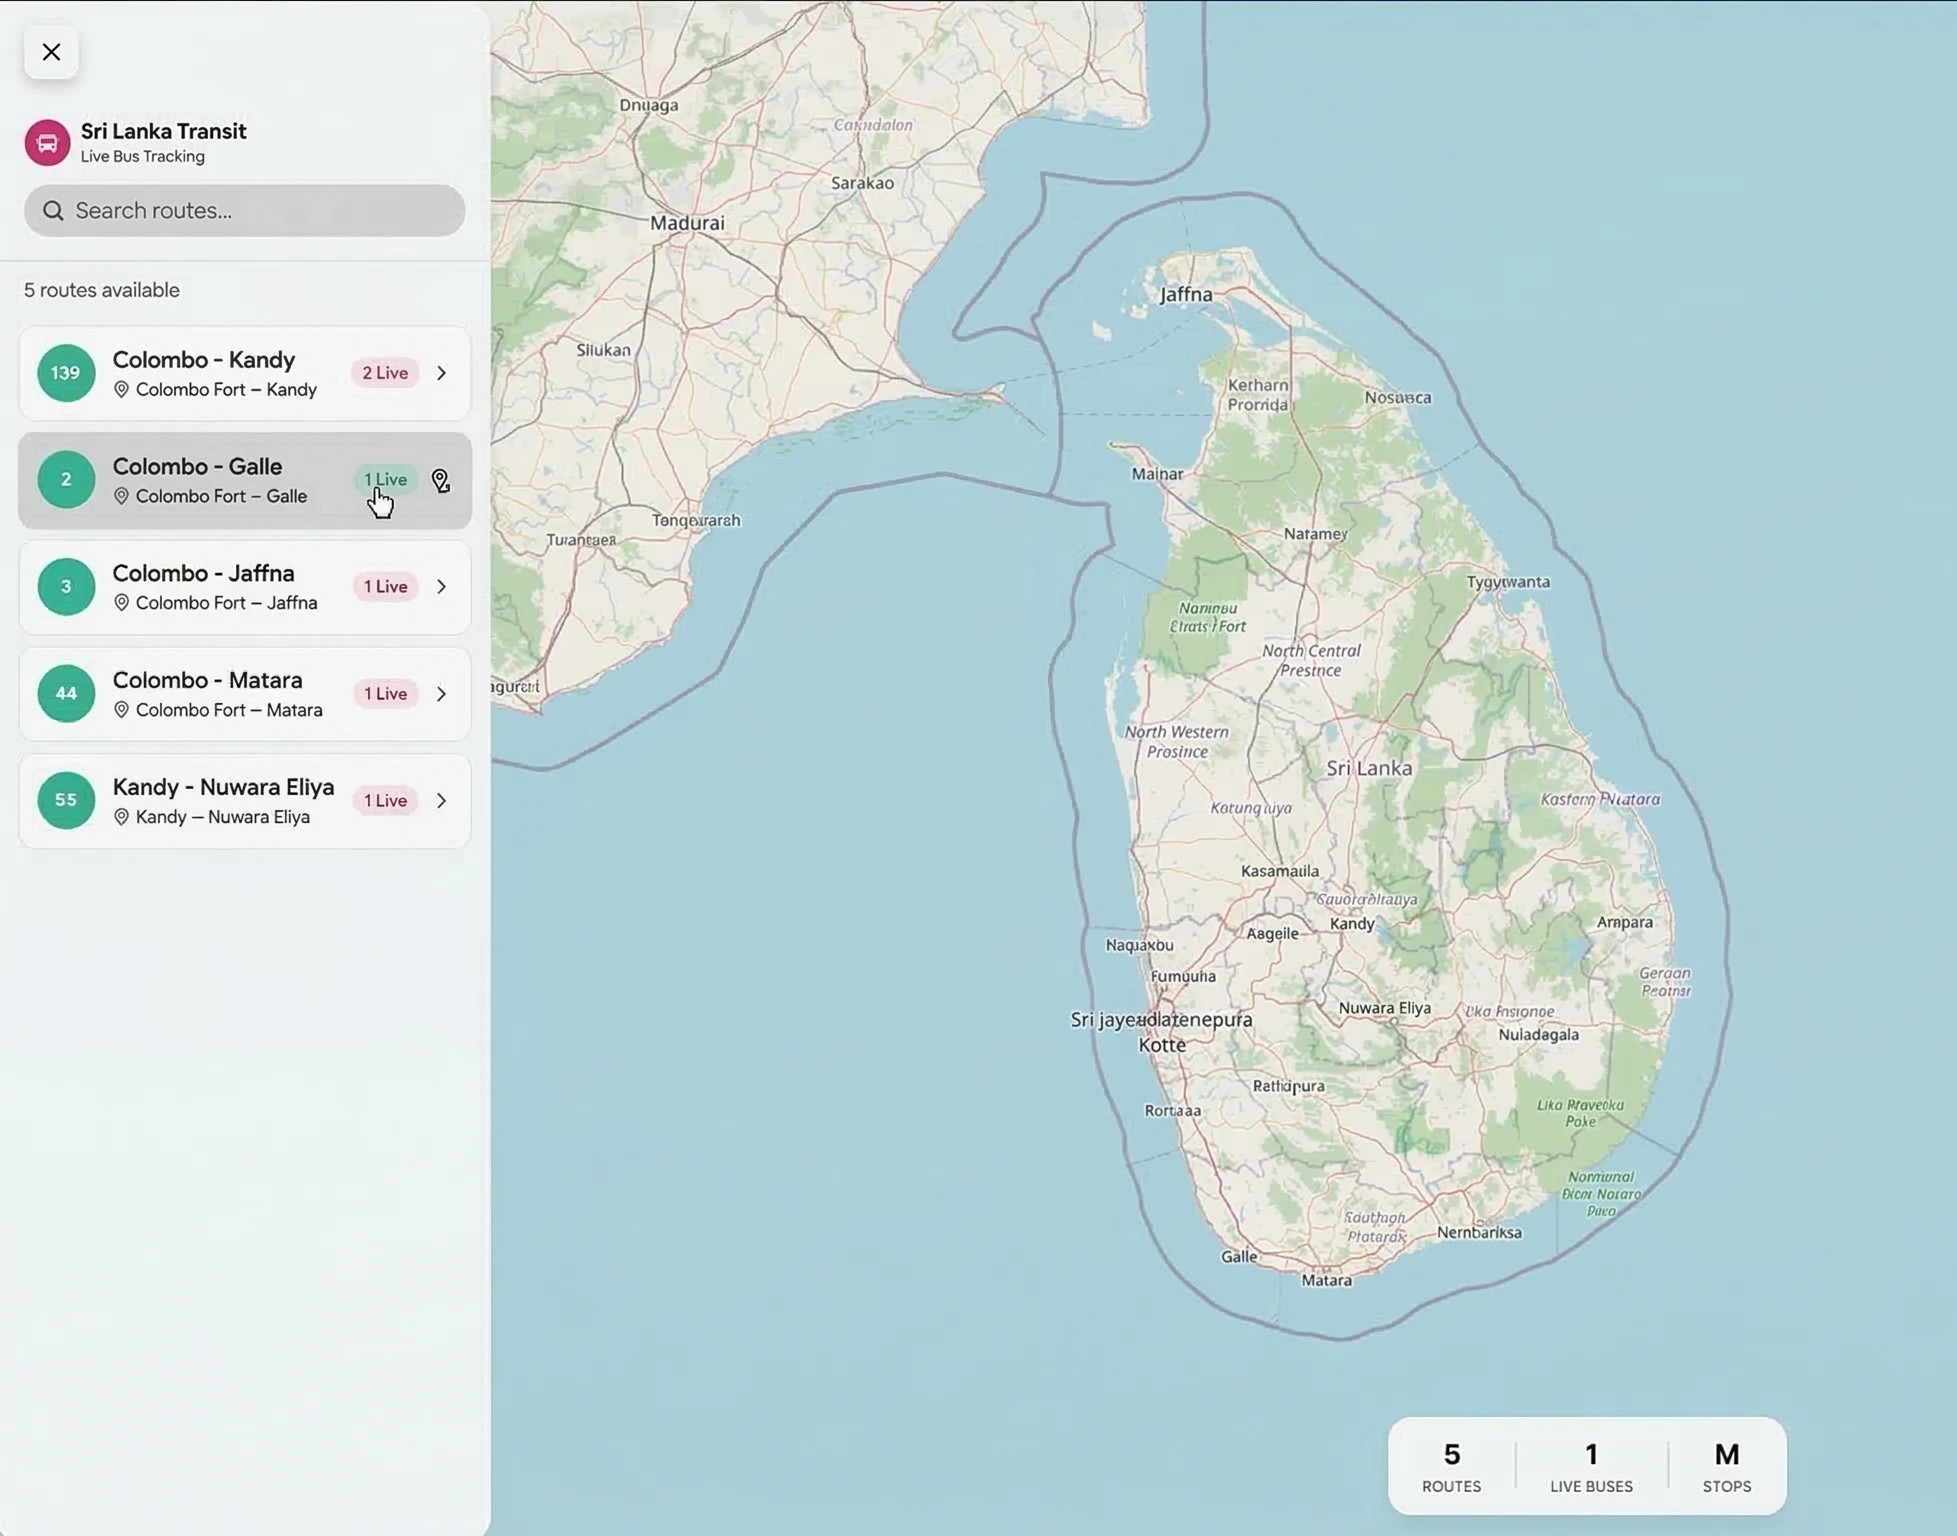
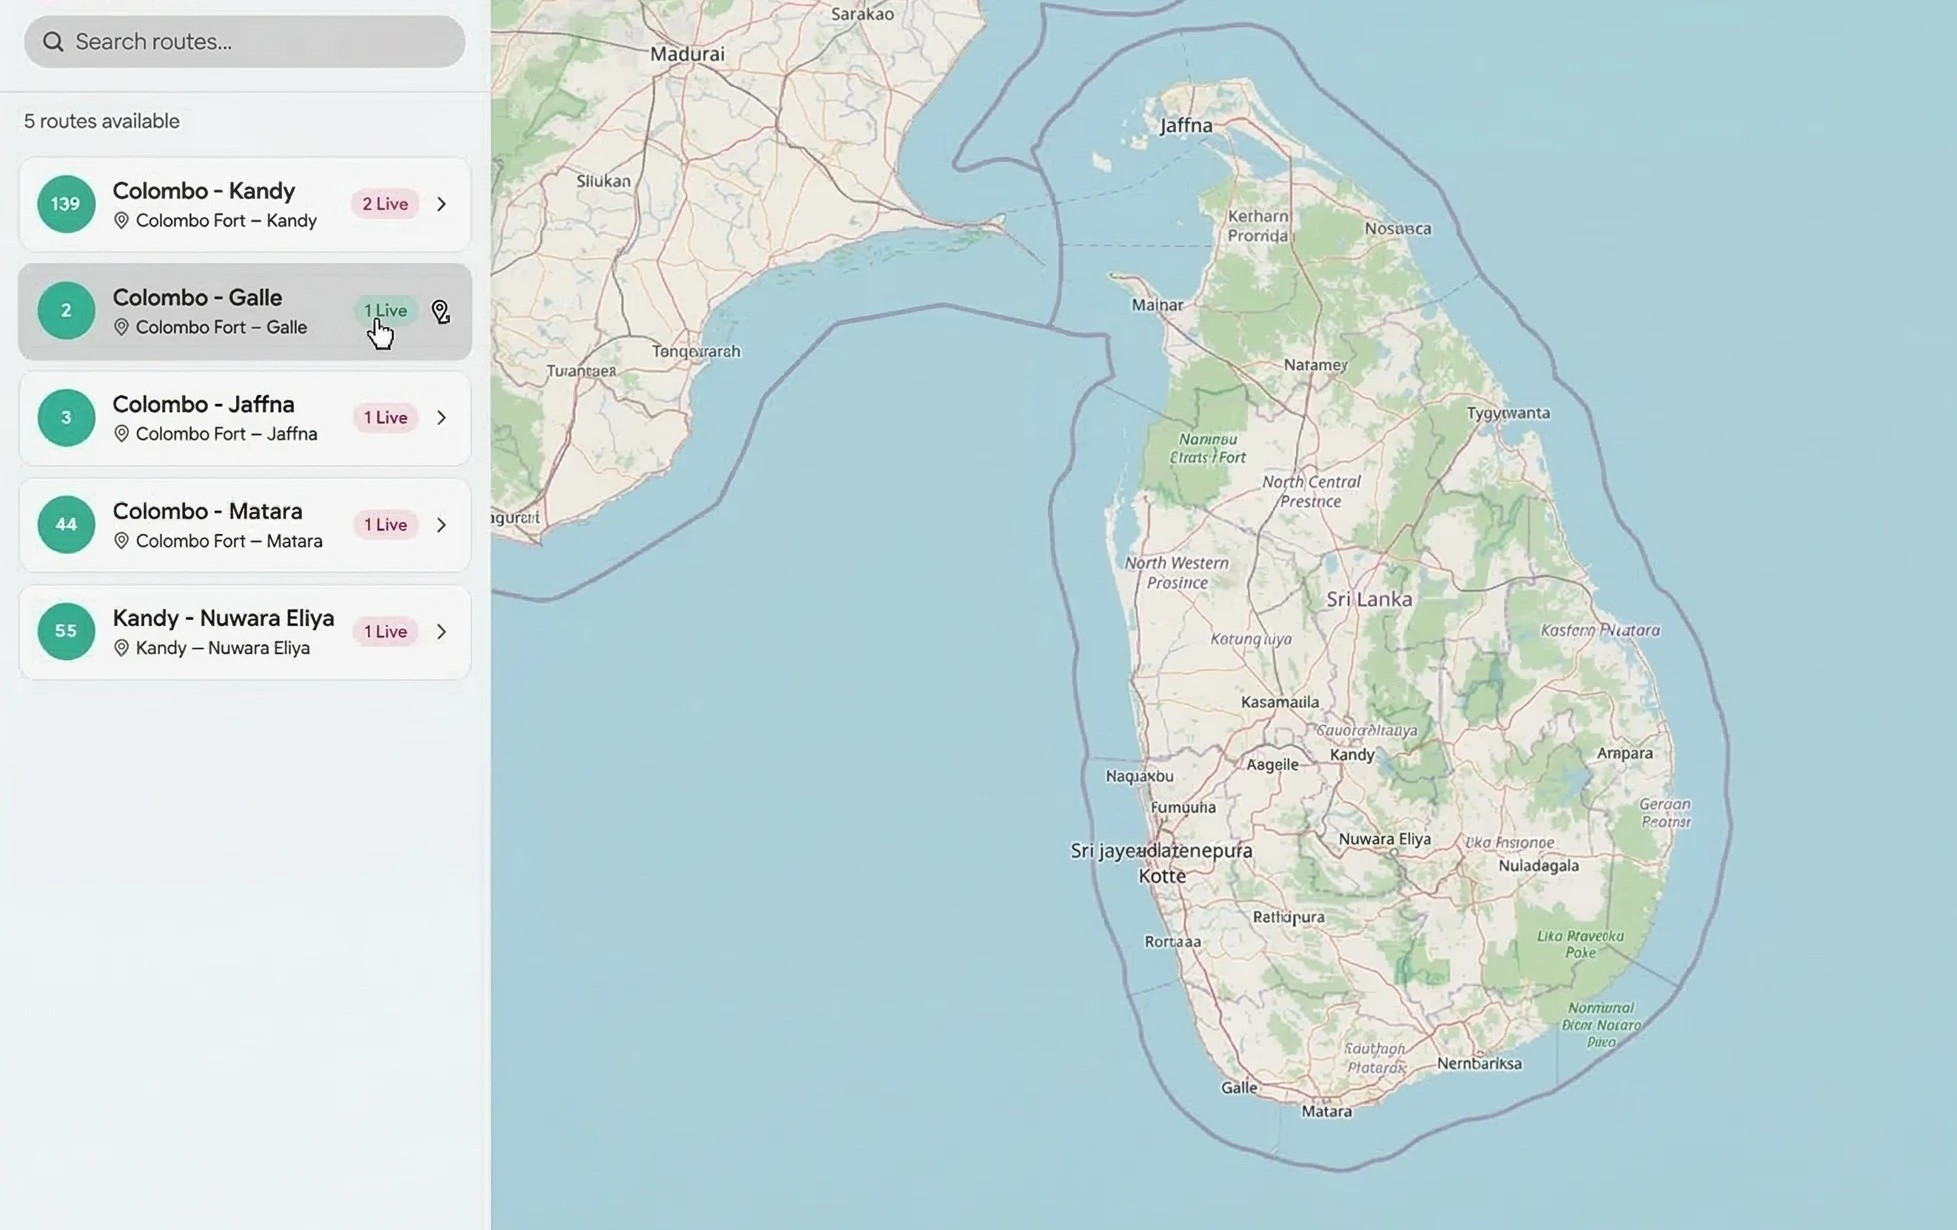
added lenis smoothe scroller

Changed region(s): [[0.0, 0.0, 0.9351, 0.9886], [0.5922, 0.8959, 0.6234, 0.9268], [0.4364, 0.3089, 0.4676, 0.3398]]

diff --git a/src/App.tsx b/src/App.tsx
@@ -5,13 +5,44 @@ import StickyCards from './components/StickyCards/StickyCards';
 import TestimonialCards from './components/TestimonialCards/TestimonialCards';
 import SpectralGhost from './components/SpectralGhost/SpectralGhost';
 import About from './components/About/About';
-import { useState } from 'react';
+import { useState, useEffect } from 'react';
 import Preloader from './components/Preloader.jsx';
-import ChatAssistant from "./components/ChatAssistant/ChatAssistant.js"
+import ChatAssistant from "./components/ChatAssistant/ChatAssistant.js";
+import Lenis from 'lenis';
+import { gsap } from 'gsap';
+import { ScrollTrigger } from 'gsap/ScrollTrigger';
 
+gsap.registerPlugin(ScrollTrigger);
 
 function App() {
   const [preloaderDone, setPreloaderDone] = useState(false);
+
+  // ── Lenis smooth scrolling ──────────────────────────────────────────────────
+  // Creates a Lenis instance and syncs it with GSAP's ticker so that all
+  // existing ScrollTrigger animations update correctly during smooth scrolling.
+  useEffect(() => {
+    const lenis = new Lenis({
+      duration: 1.2,
+      smoothWheel: true,
+      syncTouch: false,
+    });
+
+    // Sync Lenis scroll events with GSAP ScrollTrigger
+    lenis.on('scroll', ScrollTrigger.update);
+
+    // Drive Lenis from GSAP's ticker for frame-perfect synchronisation
+    gsap.ticker.add((time) => {
+      lenis.raf(time * 1000);
+    });
+
+    // Disable GSAP's built-in lag smoothing so Lenis handles all timing
+    gsap.ticker.lagSmoothing(0);
+
+    return () => {
+      lenis.destroy();
+    };
+  }, []);
+
 
   return (
     <div className="min-h-screen bg-projects-bg">

diff --git a/src/components/StickyCards/StickyCards.tsx b/src/components/StickyCards/StickyCards.tsx
@@ -37,7 +37,7 @@ const projects: Project[] = [
     id: 'card-2',
     tag: 'Machine Learning',
     title: 'CuraNex',
-    description: 'An AI-powered full-stack demand forecasting and inventory optimization platform designed for pharmaceutical supply chains. Features advanced time-series models, multi-horizon forecasting, anomaly detection, and intelligent reorder recommendations, supported by a scalable data pipeline, REST APIs, and an interactive dashboard for real-time analytics and decision-making.',
+    description: 'An AI-powered pharmaceutical supply chain platform for demand forecasting and inventory optimization with real-time analytics, anomaly detection, and smart reorder recommendations.',
     tech: ['React', 'FastAPI', 'XGBoost', 'LightGBM', 'PyTorch'],
     image: img5,
     color: '#1a1d29',
@@ -68,7 +68,7 @@ const projects: Project[] = [
   {
     id: 'card-5',
     tag: 'Desktop Application',
-    title: 'HR-Management System',
+    title: 'HRM System',
     description:
       'A C# WPF desktop HR management system for managing employees, departments, attendance, leave, and payroll, with role-based authentication, automated payroll, and reporting features.',
     tech: ['C#', 'WPF', 'SQL Server'],

diff --git a/src/index.css b/src/index.css
@@ -21,8 +21,9 @@ All colors MUST be HSL.
 }
 
 html {
-  scroll-behavior: smooth;
+  /* scroll-behavior is handled by Lenis — do not set smooth here */
   overflow-y: scroll;          /* keep page scrollable */
+  overflow-x: hidden;          /* prevent horizontal scroll */
 }
 
 body {
